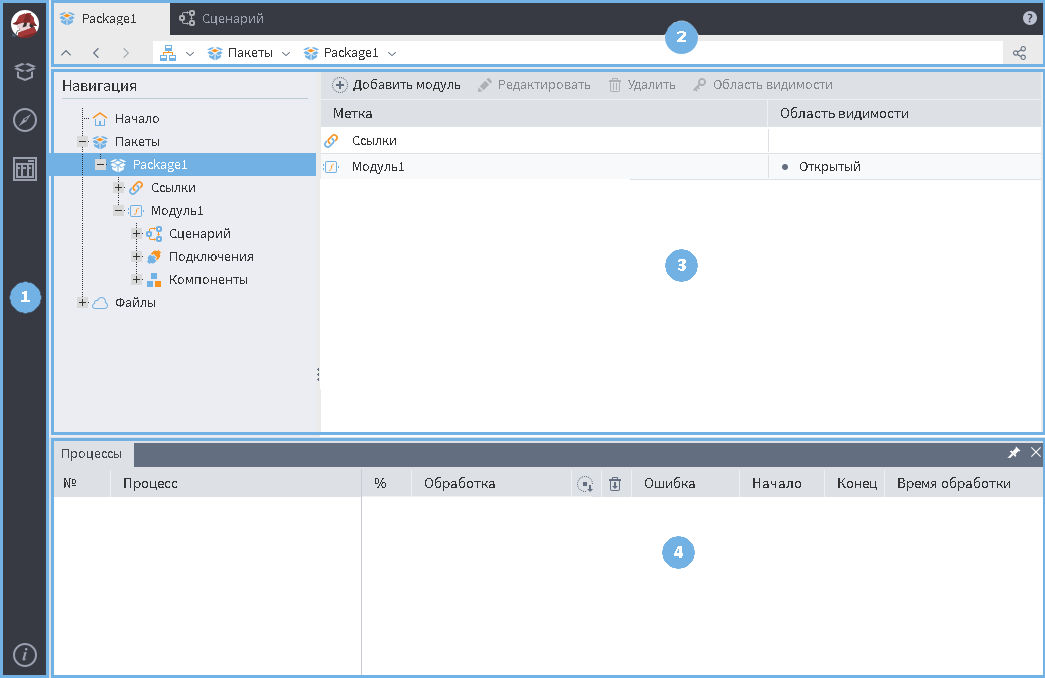
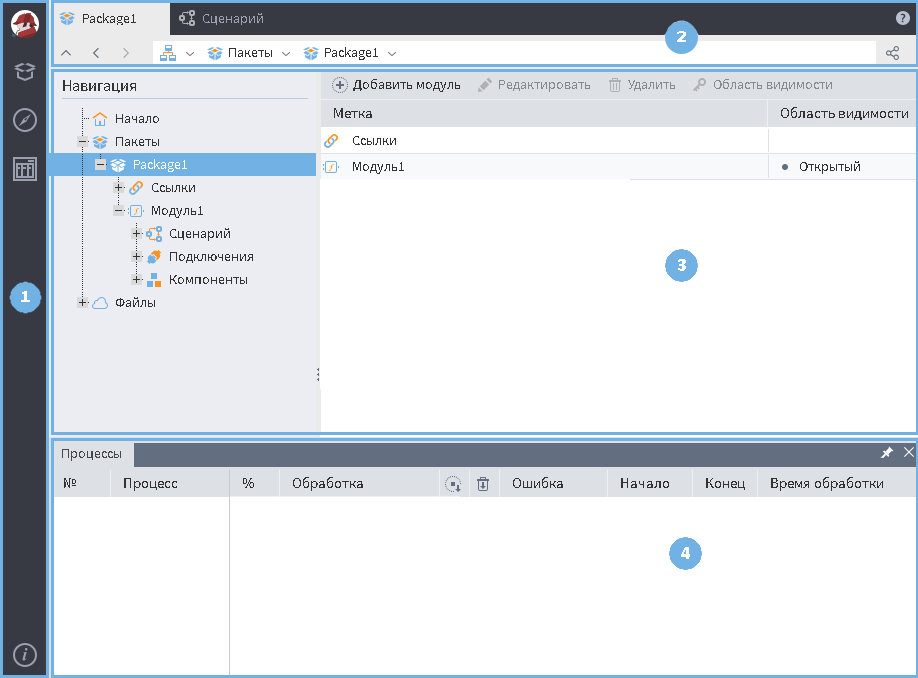
Изменение размеров рисунков

diff --git a/quick-start/first-scenario.md b/quick-start/first-scenario.md
@@ -4,7 +4,7 @@
 
 После авторизации открывается окно выбора действий (Cтраница Начало (см. рисунок 1)), в котором можно выполнять следующие операции с пакетами.
 
-![Страница Начало](./first-scenario-1.PNG)
+![Страница Начало.](./first-scenario-1.png)
 
 * **Создать пакет** — создание нового пакета, программа сразу попросить указать путь, куда сохранить пакет.
 * **Создать временный пакет** — создание нового пакета без предварительного сохранения. Сохранить пакет можно будет уже во время работы с ним.
